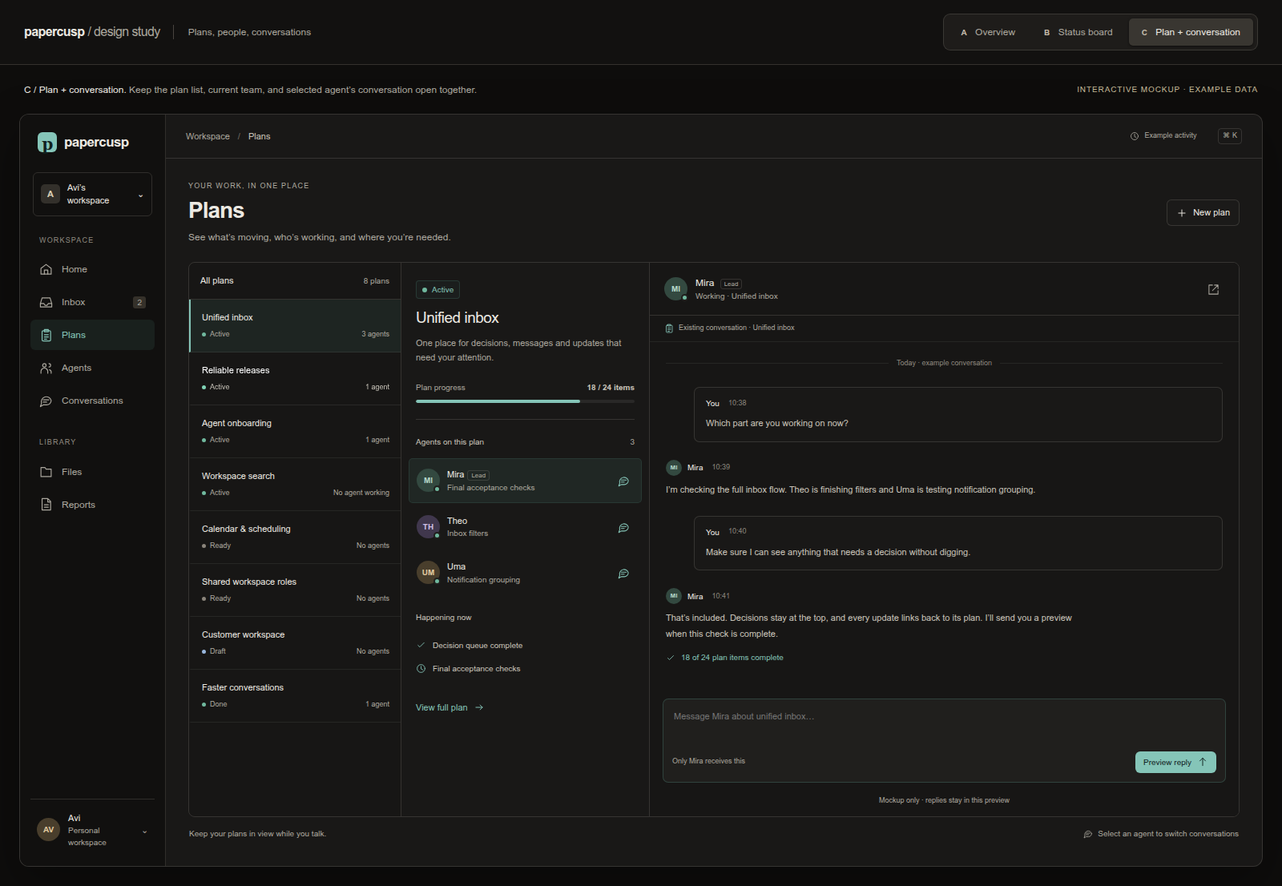
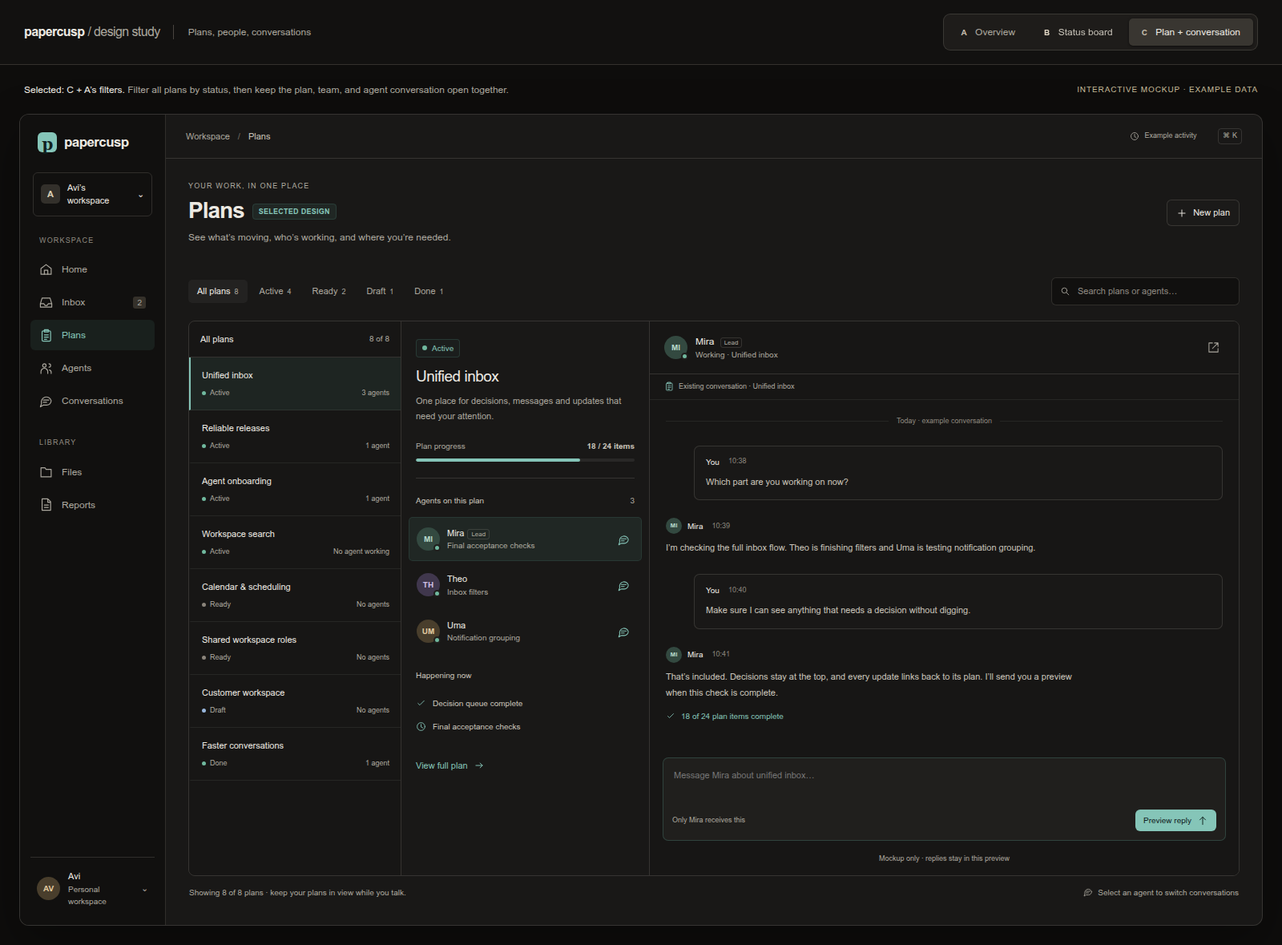
sync(docs): docs (3 files, +37/-8) [skip ci]
Refining Avi's selected plans mockup C with the status filters/counts…

Papercusp-Agent: su-a76ea643-a38b-4f64-9b80-a4152d0f8b6b

diff --git a/docs/evidence/plans-overview-mockups-2026-10-23/index.html b/docs/evidence/plans-overview-mockups-2026-10-23/index.html
@@ -2,7 +2,7 @@
 <html lang="en">
 <head>
 <meta charset="utf-8"><meta name="viewport" content="width=device-width,initial-scale=1">
-<title>Plans — three interface concepts</title>
+<title>Plans — selected design with status filters</title>
 <style>
 :root{color-scheme:dark;--deep:#11100f;--bg:#191817;--panel:#201f1d;--raised:#262523;--ink:#ece9e2;--dim:#c9c4ba;--muted:#aba79e;--line:rgba(201,196,186,.17);--soft:rgba(201,196,186,.09);--accent:#85c5b8;--accent-bg:rgba(95,174,159,.10);--good:#70b89e;--warn:#d1a65a;--bad:#da7a72;--blue:#98b6dc}
 *{box-sizing:border-box}body{margin:0;background:#0e0d0c;color:var(--ink);font-family:Inter,-apple-system,BlinkMacSystemFont,"Segoe UI",sans-serif;font-size:13px;line-height:1.5}button,input,textarea{font:inherit}button{color:inherit;cursor:pointer;background:none;border:0}button:focus-visible,input:focus-visible,textarea:focus-visible{outline:2px solid var(--accent);outline-offset:3px}button:hover{filter:brightness(1.15)}svg{width:17px;height:17px;flex-shrink:0;vertical-align:middle;fill:none;stroke:currentColor;stroke-width:1.65;stroke-linecap:round;stroke-linejoin:round}h1,h2,h3,p{margin:0}button:disabled{opacity:.5;cursor:default}.reviewbar{height:81px;padding:0 30px;display:flex;align-items:center;justify-content:space-between;border-bottom:1px solid #34312d;background:#121110;gap:20px}.reviewtitle{display:flex;align-items:center;gap:16px}.wordmark{font-size:16px;font-weight:650;letter-spacing:-.6px}.study{border-left:1px solid #49443f;padding-left:18px;color:var(--muted);font-size:12px}.concepts{display:flex;gap:4px;background:#1e1c1a;padding:5px;border:1px solid var(--line);border-radius:9px}.concepts button{padding:8px 16px;border-radius:5px;color:var(--muted);font-size:12px}.concepts button.selected{background:#393631;color:var(--ink);box-shadow:0 1px 3px #0008}.concepts b{font-size:10px;margin-right:7px;color:#c4bbaa}.caption{height:61px;padding:0 30px;display:flex;align-items:center;justify-content:space-between;color:var(--muted);font-size:12px;gap:20px}.caption strong{color:var(--ink);font-weight:500}.mocklabel{font-size:10px;letter-spacing:.09em;color:#c0b594;text-transform:uppercase;white-space:nowrap}.app{margin:0 24px 24px;border:1px solid var(--line);border-radius:12px;overflow:hidden;background:var(--bg);min-height:846px;display:grid;grid-template-columns:182px 1fr;box-shadow:0 20px 60px #0005}.sidebar{border-right:1px solid var(--line);background:var(--deep);padding:22px 13px;display:flex;flex-direction:column;gap:24px}.brand{padding:0 9px;display:flex;align-items:center;gap:9px;font-size:17px;letter-spacing:-.6px;font-weight:650}.brandmark{width:24px;height:25px;background:var(--accent);color:#10211e;border-radius:6px;display:grid;place-items:center;font-family:Georgia,serif;font-weight:bold;font-size:21px}.workspace{margin:0 3px;padding:10px 9px;border:1px solid var(--line);border-radius:6px;display:flex;align-items:center;gap:9px;font-size:11px}.workspace svg{width:13px}.wsicon{width:24px;height:24px;border-radius:5px;display:grid;place-items:center;background:#33302b;color:#ddd1b6;font-weight:600}.navlabel{color:#8c877e;font-size:9px;letter-spacing:.13em;padding:0 11px;margin-bottom:10px}.navitem{padding:10px 11px;display:flex;align-items:center;gap:11px;color:var(--muted);font-size:12px;border-radius:6px;margin:3px 0}.navitem.selected{background:var(--accent-bg);color:var(--accent)}.navitem em{margin-left:auto;font-size:10px;background:#35312a;padding:0 5px;border-radius:3px;font-style:normal}.sidebarfoot{margin-top:auto;padding:15px 8px 0;border-top:1px solid var(--line);display:flex;align-items:center;gap:10px;font-size:11px}.sidebarfoot small{display:block;color:var(--muted);font-size:10px}.avatar{width:29px;height:29px;border-radius:50%;background:#334940;color:#b4d6c7;display:inline-grid;place-items:center;font-size:10px;font-weight:650;position:relative;flex-shrink:0}.avatar.t1{background:#40374d;color:#ccbee3}.avatar.t2{background:#493e2c;color:#e0c99f}.avatar.t3{background:#304350;color:#b0d0de}.avatar.t4{background:#4b3535;color:#e4bbbb}.avatar .dot{position:absolute;bottom:-1px;right:-1px;border:2px solid var(--panel);width:9px;height:9px}.main{min-width:0}.appbar{height:55px;border-bottom:1px solid var(--line);padding:0 25px;display:flex;align-items:center;justify-content:space-between;color:var(--muted);font-size:11px}.crumb{display:flex;align-items:center;gap:10px}.crumb span{color:#78736b}.appbar .right{display:flex;align-items:center;gap:20px}.keycap{font-size:9px;border:1px solid var(--line);border-radius:4px;padding:2px 5px;margin-left:7px}.maincontent{padding:28px 28px 20px}.heading{display:flex;align-items:center;justify-content:space-between;margin-bottom:22px}.eyebrow{font-size:9px;color:var(--muted);letter-spacing:.13em;text-transform:uppercase;margin-bottom:6px}h1{font-size:28px;line-height:1.2;letter-spacing:-1px;font-weight:600}.subhead{font-size:12px;color:var(--muted);margin-top:8px}.button{display:inline-flex;gap:7px;align-items:center;justify-content:center;border:1px solid var(--line);padding:7px 11px;border-radius:6px;font-size:11px;font-weight:500;background:#ffffff03}.button svg{width:14px;height:14px}.button.primary{background:var(--accent);color:#10211e;border-color:transparent}.button.link{border:0;color:var(--accent);background:none;padding:4px 0}.stats{display:flex;align-items:center;gap:26px;font-size:11px;color:var(--muted);padding:15px 0 20px;border-bottom:1px solid var(--line)}.stats button{font-size:11px;color:var(--muted);display:flex;align-items:center;gap:7px;padding:0}.stats b{color:var(--ink);font-size:17px;line-height:1;font-weight:550;margin-right:4px}.stats .attention{color:var(--warn);margin-left:auto}.stats .attention b{color:var(--warn)}.dot{width:6px;height:6px;display:inline-block;border-radius:50%;background:var(--good);flex-shrink:0}.dot.waiting{background:var(--warn)}.dot.off{background:#8a847b}.dot.draft{background:var(--blue)}.dot.done{background:var(--good)}.filters{display:flex;align-items:center;justify-content:space-between;gap:20px;padding:19px 0}.filtertabs{display:flex;align-items:center;gap:4px}.filtertabs button{padding:6px 11px;border-radius:5px;font-size:11px;color:var(--muted);white-space:nowrap}.filtertabs button.selected{background:#ffffff0c;color:var(--ink)}.filtertabs small{font-size:9px;color:var(--muted);padding-left:5px}.search{display:flex;align-items:center;gap:7px;border:1px solid var(--line);border-radius:6px;padding:7px 10px;width:235px;color:var(--muted);background:var(--deep)}.search svg{width:13px;height:13px}.search input{width:100%;background:none;border:0;outline:0;color:var(--ink);font-size:11px}.search input::placeholder{color:#8e8981}.tablewrap{border:1px solid var(--line);border-radius:8px;overflow:hidden}.plan-table{width:100%;border-collapse:collapse;table-layout:fixed}.plan-table th{text-align:left;padding:11px 16px;font-size:9px;color:var(--muted);text-transform:uppercase;letter-spacing:.08em;font-weight:450;background:#ffffff02;border-bottom:1px solid var(--line)}.plan-table td{padding:16px;border-bottom:1px solid var(--soft);vertical-align:middle}.plan-table tr:last-child td{border:0}.plan-table tr:hover td{background:#ffffff02}.plan-table th:nth-child(1){width:26%}.plan-table th:nth-child(2){width:14%}.plan-table th:nth-child(3){width:15%}.plan-table th:nth-child(4){width:28%}.plan-table th:nth-child(5){width:17%}.plantitle{display:block;text-align:left;font-weight:550;font-size:12px;padding:0;line-height:1.35}.planmeta{font-size:10px;color:var(--muted);margin-top:5px}.badge{display:inline-flex;align-items:center;gap:6px;font-size:10px;border:1px solid var(--line);padding:3px 7px;border-radius:4px;color:var(--dim);white-space:nowrap}.badge.active{color:var(--accent);background:#5fae9f0b;border-color:#5fae9f30}.badge.ready{color:var(--dim)}.badge.draft{color:var(--blue);border-color:#98b6dc30}.badge.done{color:var(--good);border-color:#70b89e30}.progress{height:3px;background:#ffffff12;border-radius:3px;margin-top:8px;width:88px;overflow:hidden}.progress i{height:100%;display:block;background:var(--accent);border-radius:3px}.progresstext{color:var(--dim);font-size:11px}.progresstext span{color:var(--muted)}.agents{display:flex;align-items:center;gap:7px}.agentpill{display:flex;align-items:center;gap:7px;padding:0;font-size:11px;white-space:nowrap}.agentpill:hover .agentname{color:var(--accent)}.agentpill .avatar{width:25px;height:25px;font-size:9px}.agentline{display:flex;align-items:center;gap:4px}.agentline svg{width:12px;height:12px;color:var(--muted)}.agentstatus{font-size:9px;color:var(--muted);line-height:1.5}.agentstatus.waiting{color:var(--warn)}.moreagents{display:flex;margin-left:5px}.moreagents .avatar{width:24px;height:24px;margin-left:-5px;border:2px solid var(--bg);font-size:8px}.noagent{color:var(--warn);font-size:11px;display:flex;align-items:center;gap:7px}.noagent svg{width:14px;height:14px}.latest{font-size:10px;color:var(--muted)}.latest .needs{display:inline-flex;gap:5px;align-items:center;color:var(--warn);font-size:10px;margin-bottom:3px}.latest .needs svg{width:12px;height:12px}.tablefoot{display:flex;justify-content:space-between;color:var(--muted);font-size:10px;padding:13px 1px}.tablefoot span{display:flex;align-items:center;gap:6px}.tablefoot svg{width:12px;height:12px}.recommend{font-size:9px;letter-spacing:.03em;color:var(--accent);background:var(--accent-bg);border:1px solid #5fae9f2a;border-radius:4px;padding:4px 7px;margin-left:10px;vertical-align:middle}.legend{font-size:10px;color:var(--muted);margin-top:16px}.legend strong{font-weight:450;color:var(--dim)}
@@ -25,7 +25,7 @@ document.querySelectorAll('[data-icon]').forEach(el=>el.insertAdjacentHTML('afte
 const people={mira:{name:'Mira',initial:'MI',tone:'',role:'Lead',state:'Working',task:'Final acceptance checks'},theo:{name:'Theo',initial:'TH',tone:'t1',role:'Agent',state:'Working',task:'Inbox filters'},uma:{name:'Uma',initial:'UM',tone:'t2',role:'Agent',state:'Working',task:'Notification grouping'},luca:{name:'Luca',initial:'LU',tone:'t3',role:'Lead',state:'Waiting',task:'Needs your decision'},iris:{name:'Iris',initial:'IR',tone:'t4',role:'Lead',state:'Working',task:'Testing the welcome flow'},eli:{name:'Eli',initial:'EL',tone:'t2',role:'Agent',state:'Ended',task:'Session finished'}};
 const plans=[{id:'inbox',title:'Unified inbox',area:'Workspace',state:'active',done:18,total:24,agents:['mira','theo','uma'],latest:'Checking the final flow',age:'Just now',desc:'One place for decisions, messages and updates that need your attention.'},{id:'releases',title:'Reliable releases',area:'Platform',state:'active',done:9,total:16,agents:['luca'],latest:'Needs your decision',age:'4m ago',attention:'Decision needed',desc:'Make releases predictable and keep recovery simple when something goes wrong.'},{id:'onboarding',title:'Agent onboarding',area:'Agents',state:'active',done:6,total:10,agents:['iris'],latest:'Testing the welcome flow',age:'2m ago',desc:'Help every new agent find its work and start with the right context.'},{id:'search',title:'Workspace search',area:'Workspace',state:'active',done:2,total:8,agents:[],latest:'No agent assigned',age:'Last activity 2h ago',attention:'No agent working',desc:'Find plans, files and conversations in one search.'},{id:'calendar',title:'Calendar & scheduling',area:'Apps',state:'ready',done:0,total:12,agents:[],latest:'Ready when you are',age:'Updated yesterday',desc:'Make time for the work that matters.'},{id:'roles',title:'Shared workspace roles',area:'Workspace',state:'ready',done:0,total:9,agents:[],latest:'Ready when you are',age:'Updated yesterday',desc:'Simple permissions for shared work.'},{id:'customer',title:'Customer workspace',area:'Apps',state:'draft',done:0,total:0,agents:[],latest:'Still taking shape',age:'Updated 2d ago',desc:'A new home for customer work.'},{id:'conversations',title:'Faster conversations',area:'Experience',state:'done',done:14,total:14,agents:['eli'],latest:'Completed',age:'Finished yesterday',desc:'Keep every conversation responsive.'}];
 const escape=s=>String(s).replace(/[&<>"']/g,c=>({'&':'&amp;','<':'&lt;','>':'&gt;','"':'&quot;',"'":'&#39;'}[c]));
-let concept=new URLSearchParams(location.search).get('view')||'overview',filter='all',query='',selected='inbox',selectedAgent='mira',returnFocus=null;const draftReplies={};
+let concept=new URLSearchParams(location.search).get('view')||'conversation',filter='all',query='',selected='inbox',selectedAgent='mira',returnFocus=null;const draftReplies={};
 const stateLabel=s=>({active:'Active',ready:'Ready',draft:'Draft',done:'Done'}[s]);
 function av(id,live=true){const p=people[id];return '<span class="avatar '+p.tone+'">'+p.initial+(live?'<i class="dot '+(p.state==='Waiting'?'waiting':p.state==='Ended'?'off':'')+'"></i>':'')+'</span>'}
 function badge(p){return '<span class="badge '+p.state+'"><i class="dot '+(p.state==='ready'?'off':p.state==='draft'?'draft':'')+'"></i>'+stateLabel(p.state)+'</span>'}
@@ -33,14 +33,22 @@ function agentButton(id,pid){const p=people[id];return '<button class="agentpill
 function moreAgents(p){return p.agents.length>1?'<div class="moreagents">'+p.agents.slice(1).map(id=>'<button data-chat="'+id+'" data-plan="'+p.id+'" aria-label="Open conversation with '+people[id].name+'">'+av(id,false)+'<span>'+people[id].name+'</span></button>').join('')+'</div>':''}
 function progress(p){return '<span class="progresstext">'+(p.total?p.done+' <span>/ '+p.total+' items</span>':'Not scoped yet')+'</span>'+(p.total?'<div class="progress" aria-label="'+p.done+' of '+p.total+' items complete"><i style="width:'+p.done/p.total*100+'%"></i></div>':'')}
 function visiblePlans(){return plans.filter(p=>(filter==='all'||filter==='attention'&&p.attention||p.state===filter)&&(!query||[p.title,p.area,...p.agents.map(id=>people[id].name)].join(' ').toLowerCase().includes(query.toLowerCase())))}
-function header(){const active=plans.filter(p=>p.state==='active'),currentAgents=active.flatMap(p=>p.agents),needs=active.filter(p=>p.attention);return '<div class="heading"><div><div class="eyebrow">YOUR WORK, IN ONE PLACE</div><h1>Plans'+(concept==='overview'?'<span class="recommend">RECOMMENDED</span>':'')+'</h1><p class="subhead">See what’s moving, who’s working, and where you’re needed.</p></div><button class="button" data-demo="This is a design preview. Creating a plan will use the existing plan editor.">'+icon('plus')+' New plan</button></div>'+(concept==='conversation'?'':'<div class="stats"><button data-filter="all"><b>'+plans.length+'</b> plans</button><button data-filter="active"><i class="dot"></i><b>'+active.length+'</b> active</button><span>'+icon('agents')+' <b>'+currentAgents.length+'</b> agents · '+currentAgents.filter(id=>people[id].state==='Working').length+' working, '+currentAgents.filter(id=>people[id].state==='Waiting').length+' waiting</span><button class="attention" data-filter="attention">'+icon('alert')+'<b>'+needs.length+'</b> need attention '+icon('arrow')+'</button></div>')}
+function header(){const active=plans.filter(p=>p.state==='active'),currentAgents=active.flatMap(p=>p.agents),needs=active.filter(p=>p.attention);return '<div class="heading"><div><div class="eyebrow">YOUR WORK, IN ONE PLACE</div><h1>Plans'+(concept==='conversation'?'<span class="recommend">SELECTED DESIGN</span>':'')+'</h1><p class="subhead">See what’s moving, who’s working, and where you’re needed.</p></div><button class="button" data-demo="This is a design preview. Creating a plan will use the existing plan editor.">'+icon('plus')+' New plan</button></div>'+(concept==='conversation'?'':'<div class="stats"><button data-filter="all"><b>'+plans.length+'</b> plans</button><button data-filter="active"><i class="dot"></i><b>'+active.length+'</b> active</button><span>'+icon('agents')+' <b>'+currentAgents.length+'</b> agents · '+currentAgents.filter(id=>people[id].state==='Working').length+' working, '+currentAgents.filter(id=>people[id].state==='Waiting').length+' waiting</span><button class="attention" data-filter="attention">'+icon('alert')+'<b>'+needs.length+'</b> need attention '+icon('arrow')+'</button></div>')}
 function filters(){return '<div class="filters"><div class="filtertabs" aria-label="Filter plan status">'+['all','active','ready','draft','done'].map(s=>'<button data-filter="'+s+'" class="'+(filter===s?'selected':'')+'" aria-pressed="'+(filter===s)+'">'+(s==='all'?'All plans':stateLabel(s))+'<small>'+plans.filter(p=>s==='all'||p.state===s).length+'</small></button>').join('')+'</div><label class="search">'+icon('search')+'<span class="sr">Search plans or agents</span><input id="search" value="'+escape(query)+'" placeholder="Search plans or agents…"></label></div>'}
 function overview(){const rows=visiblePlans();return header()+filters()+'<div class="tablewrap"><table class="plan-table"><thead><tr><th>Plan</th><th>Status</th><th>Progress</th><th>Agents · click to talk</th><th>Latest activity</th></tr></thead><tbody>'+rows.map(p=>'<tr><td><button class="plantitle" data-select="'+p.id+'">'+p.title+'</button><div class="planmeta">'+p.area+'</div></td><td>'+badge(p)+'</td><td>'+progress(p)+'</td><td>'+(p.agents.length?'<div class="agents">'+agentButton(p.agents[0],p.id)+moreAgents(p)+'</div>':p.state==='active'?'<span class="noagent">'+icon('alert')+' No agent working</span>':'<span class="quiet">No agents assigned</span>')+'</td><td class="latest">'+(p.attention?'<div class="needs">'+icon('alert')+p.attention+'</div>':'')+(!p.attention?p.latest+'<br>':'')+p.age+'</td></tr>').join('')+'</tbody></table>'+(rows.length?'':'<div class="empty">No matching plans. Try another search or clear your filters.</div>')+'</div><div class="tablefoot"><span>Showing '+rows.length+' of '+plans.length+' plans · all statuses included</span><span>'+icon('chat')+' Click any agent to open their conversation</span></div><p class="legend"><strong>Active</strong> = work on it now &nbsp; · &nbsp; <strong>Ready</strong> = approved for later &nbsp; · &nbsp; <strong>Draft</strong> = still taking shape</p>'}
 function boardCard(p){return '<article class="boardcard '+(p.attention?'flagged':'')+'"><button class="plantitle" data-select="'+p.id+'">'+p.title+'</button><div class="planmeta">'+p.area+' · '+p.age+'</div>'+(p.total?'<div class="boardprogress"><div class="progress"><i style="width:'+p.done/p.total*100+'%"></i></div><span>'+p.done+' / '+p.total+'</span></div>':'<p class="quiet" style="margin:13px 0">Not scoped yet</p>')+(p.attention?'<div class="callout">'+icon('alert')+p.attention+'</div>':'')+'<div class="cardfooter">'+(p.agents.length?'<div class="agents">'+agentButton(p.agents[0],p.id)+moreAgents(p)+'</div><button class="button" data-chat="'+p.agents[0]+'" data-plan="'+p.id+'" aria-label="Open '+people[p.agents[0]].name+' conversation">'+icon('chat')+' Talk</button>':p.state==='active'?'<span class="noagent">No agent working</span><button class="button" data-demo="Assign an agent to Workspace search. The production action would open the existing agent picker.">Assign '+icon('plus')+'</button>':'<span class="quiet">'+(p.state==='draft'?'Still taking shape':'Ready for later')+'</span>')+'</div></article>'}
 function board(){const list=visiblePlans();return header()+filters()+'<div class="board">'+['active','ready','draft','done'].map(s=>{const ps=list.filter(p=>p.state===s);return '<section><div class="columnhead"><span><i class="dot '+(s==='ready'?'off':s==='draft'?'draft':'')+'"></i>'+stateLabel(s)+' <em>'+ps.length+'</em></span>'+icon('down')+'</div>'+ps.map(boardCard).join('')+(!ps.length?'<div class="emptycolumn">No '+s+' plans in this view.</div>':'')+'</section>'}).join('')+'</div><p class="legend">Plan status sets the column. Agent activity stays visible on the card.</p>'}
 function chatMarkup(pid,id,drawer=false){const p=plans.find(p=>p.id===pid),a=people[id];let msgs;if(pid==='inbox'){msgs=[['owner','Which part are you working on now?','10:38'],['agent',id==='mira'?'I’m checking the full inbox flow. Theo is finishing filters and Uma is testing notification grouping.':'I’m working on '+a.task.toLowerCase()+'. Mira is coordinating the full inbox flow.','10:39'],['owner','Make sure I can see anything that needs a decision without digging.','10:40'],['agent','That’s included. Decisions stay at the top, and every update links back to its plan. I’ll send you a preview when this check is complete.','10:41']]}else{msgs=[['owner','Where are we with this plan?','10:38'],['agent',a.state==='Waiting'?'I’ve finished the checks I can run. I need your decision on the release recovery approach before continuing.':a.state==='Ended'?'This plan is complete. You can read the conversation here and resume the agent if you need more work.':'I’m working on '+a.task.toLowerCase()+'. The plan is moving forward.','10:39']]};return '<section class="chat"><div class="chathead">'+av(id)+'<div><div class="agentname">'+a.name+' <span class="role">'+a.role+'</span></div><div class="agentstatus '+(a.state==='Waiting'?'waiting':'')+'">'+a.state+' · '+p.title+'</div></div><div class="tools">'+(drawer?'<button class="closechat" data-close aria-label="Close conversation">'+icon('close')+'</button>':'<button data-chat="'+id+'" data-plan="'+pid+'" data-detach aria-label="Expand conversation">'+icon('external')+'</button>')+'</div></div><div class="chatcontext">'+icon('plans')+' Existing conversation · '+p.title+'</div><div class="messages"><div class="day">Today · example conversation</div>'+msgs.map(([who,body,time])=>'<div class="message '+(who==='owner'?'owner':'')+'"><div class="msgby">'+(who==='agent'?av(id,false):'')+(who==='owner'?'You':a.name)+'<time>'+time+'</time></div><div class="msgbody">'+body+(who==='agent'&&time==='10:41'?'<div class="miniupdate">'+icon('check')+' 18 of 24 plan items complete</div>':'')+'</div></div>').join('')+(draftReplies[id]||[]).map(msg=>'<div class="message owner"><div class="msgby">You <time>Preview</time></div><div class="msgbody">'+escape(msg)+'</div></div>').join('')+'</div><form class="chatcompose" data-compose="'+id+'"><label class="sr" for="reply-'+id+(drawer?'-drawer':'')+'">Message '+a.name+'</label><textarea id="reply-'+id+(drawer?'-drawer':'')+'" placeholder="Message '+a.name+' about '+p.title.toLowerCase()+'…"></textarea><div class="composefoot"><span>Only '+a.name+' receives this</span><button class="button primary" type="submit">Preview reply '+icon('up')+'</button></div></form><p class="chatnote">Mockup only · replies stay in this preview</p></section>'}
-function conversation(){const p=plans.find(p=>p.id===selected);if(!p.agents.includes(selectedAgent))selectedAgent=p.agents[0]||null;return header()+'<div class="split"><section class="planlist"><div class="listhead">All plans <span>'+plans.length+' plans</span></div>'+plans.map(pl=>'<button class="minirow '+(selected===pl.id?'selected':'')+'" data-inline-plan="'+pl.id+'"><span class="minititle">'+pl.title+'</span><span class="minimeta"><i class="dot '+(pl.state==='ready'?'off':pl.state==='draft'?'draft':'')+'"></i>'+stateLabel(pl.state)+'<em>'+(pl.agents.length?pl.agents.length+' '+(pl.agents.length===1?'agent':'agents'):pl.state==='active'?'No agent working':'No agents')+'</em></span></button>').join('')+'</section><section class="plandetail">'+badge(p)+'<h2>'+p.title+'</h2><p class="description">'+p.desc+'</p><div class="detailprogress"><span class="progresstext"><span>Plan progress</span><strong>'+p.done+' / '+p.total+' items</strong></span><div class="progress"><i style="width:'+(p.total?p.done/p.total*100:0)+'%"></i></div></div><div class="sectionlabel"><strong>Agents on this plan</strong><span>'+p.agents.length+'</span></div>'+p.agents.map(id=>'<div class="detailagent '+(id===selectedAgent?'selected':'')+'">'+av(id)+'<div><div class="agentname">'+people[id].name+(people[id].role==='Lead'?'<span class="role">Lead</span>':'')+'</div><div class="agentstatus '+(people[id].state==='Waiting'?'waiting':'')+'">'+people[id].task+'</div></div><button data-inline-agent="'+id+'" aria-label="Open conversation with '+people[id].name+'">'+icon('chat')+'</button></div>').join('')+(!p.agents.length?'<p class="quiet">'+(p.state==='active'?'This plan is active, but nobody is working on it. Assign an agent to begin.':'No agent assigned yet.')+'</p>':'')+(p.id==='inbox'?'<div class="sectionlabel"><strong>Happening now</strong></div><div class="taskline">'+icon('check')+' Decision queue complete</div><div class="taskline">'+icon('clock')+' Final acceptance checks</div>':'')+'<button class="button link" style="margin-top:22px" data-demo="The full plan would open in the existing plan dashboard.">View full plan '+icon('arrow')+'</button></section>'+(selectedAgent?chatMarkup(p.id,selectedAgent):'<section class="chat"><div class="empty" style="margin:auto"><h3 style="font-size:15px;margin-bottom:8px">No agent conversation yet</h3><p style="font-size:11px;margin-bottom:16px">Assign an agent to start work on this plan.</p><button class="button" data-demo="The production action would open the existing agent picker.">'+icon('plus')+' Assign an agent</button></div></section>')+'</div><div class="tablefoot"><span>Keep your plans in view while you talk.</span><span>'+icon('chat')+' Select an agent to switch conversations</span></div>'}
-function render(){if(!['overview','board','conversation'].includes(concept))concept='overview';document.querySelectorAll('[data-concept]').forEach(b=>{b.classList.toggle('selected',b.dataset.concept===concept);b.setAttribute('aria-pressed',String(b.dataset.concept===concept))});document.querySelector('#caption').innerHTML={overview:'<strong>A / Overview.</strong> The clearest everyday view: every plan, its status, named agents, and direct conversation access.',board:'<strong>B / Status board.</strong> Group plans by commitment. See work in motion and unattended active plans at a glance.',conversation:'<strong>C / Plan + conversation.</strong> Keep the plan list, current team, and selected agent’s conversation open together.'}[concept];document.querySelector('#content').innerHTML=concept==='overview'?overview():concept==='board'?board():conversation();const s=document.querySelector('#search');if(s)s.addEventListener('input',()=>{const start=s.selectionStart;query=s.value;render();const n=document.querySelector('#search');n.focus();n.setSelectionRange(start,start)})}
+function conversation(){
+  const rows=visiblePlans();
+  const p=rows.find(pl=>pl.id===selected)||rows[0];
+  if(p){selected=p.id;if(!p.agents.includes(selectedAgent))selectedAgent=p.agents[0]||null;}
+  const listTitle=query?'Matching plans':filter==='all'?'All plans':stateLabel(filter)+' plans';
+  const list='<section class="planlist"><div class="listhead">'+listTitle+' <span>'+rows.length+' of '+plans.length+'</span></div>'+rows.map(pl=>'<button class="minirow '+(selected===pl.id?'selected':'')+'" data-inline-plan="'+pl.id+'"><span class="minititle">'+pl.title+'</span><span class="minimeta"><i class="dot '+(pl.state==='ready'?'off':pl.state==='draft'?'draft':'')+'"></i>'+stateLabel(pl.state)+'<em>'+(pl.agents.length?pl.agents.length+' '+(pl.agents.length===1?'agent':'agents'):pl.state==='active'?'No agent working':'No agents')+'</em></span></button>').join('')+'</section>';
+  if(!p)return header()+filters()+'<div class="split">'+list+'<div class="empty" style="grid-column:2 / -1;margin:auto"><h2 style="font-size:17px;margin-bottom:8px">No matching plans</h2><p>Try another search or choose a different status.</p></div></div>';
+  return header()+filters()+'<div class="split">'+list+'<section class="plandetail">'+badge(p)+'<h2>'+p.title+'</h2><p class="description">'+p.desc+'</p><div class="detailprogress"><span class="progresstext"><span>Plan progress</span><strong>'+p.done+' / '+p.total+' items</strong></span><div class="progress"><i style="width:'+(p.total?p.done/p.total*100:0)+'%"></i></div></div><div class="sectionlabel"><strong>Agents on this plan</strong><span>'+p.agents.length+'</span></div>'+p.agents.map(id=>'<div class="detailagent '+(id===selectedAgent?'selected':'')+'">'+av(id)+'<div><div class="agentname">'+people[id].name+(people[id].role==='Lead'?'<span class="role">Lead</span>':'')+'</div><div class="agentstatus '+(people[id].state==='Waiting'?'waiting':'')+'">'+people[id].task+'</div></div><button data-inline-agent="'+id+'" aria-label="Open conversation with '+people[id].name+'">'+icon('chat')+'</button></div>').join('')+(!p.agents.length?'<p class="quiet">'+(p.state==='active'?'This plan is active, but nobody is working on it. Assign an agent to begin.':'No agent assigned yet.')+'</p>':'')+(p.id==='inbox'?'<div class="sectionlabel"><strong>Happening now</strong></div><div class="taskline">'+icon('check')+' Decision queue complete</div><div class="taskline">'+icon('clock')+' Final acceptance checks</div>':'')+'<button class="button link" style="margin-top:22px" data-demo="The full plan would open in the existing plan dashboard.">View full plan '+icon('arrow')+'</button></section>'+(selectedAgent?chatMarkup(p.id,selectedAgent):'<section class="chat"><div class="empty" style="margin:auto"><h3 style="font-size:15px;margin-bottom:8px">No agent conversation yet</h3><p style="font-size:11px;margin-bottom:16px">Assign an agent to start work on this plan.</p><button class="button" data-demo="The production action would open the existing agent picker.">'+icon('plus')+' Assign an agent</button></div></section>')+'</div><div class="tablefoot"><span>Showing '+rows.length+' of '+plans.length+' plans · keep your plans in view while you talk.</span><span>'+icon('chat')+' Select an agent to switch conversations</span></div>';
+}
+function render(){if(!['overview','board','conversation'].includes(concept))concept='conversation';document.querySelectorAll('[data-concept]').forEach(b=>{b.classList.toggle('selected',b.dataset.concept===concept);b.setAttribute('aria-pressed',String(b.dataset.concept===concept))});document.querySelector('#caption').innerHTML={overview:'<strong>A / Overview.</strong> Every plan, its status, named agents, and direct conversation access.',board:'<strong>B / Status board.</strong> Group plans by commitment. See work in motion and unattended active plans at a glance.',conversation:'<strong>Selected: C + A’s filters.</strong> Filter all plans by status, then keep the plan, team, and agent conversation open together.'}[concept];document.querySelector('#content').innerHTML=concept==='overview'?overview():concept==='board'?board():conversation();const s=document.querySelector('#search');if(s)s.addEventListener('input',()=>{const start=s.selectionStart;query=s.value;render();const n=document.querySelector('#search');n.focus();n.setSelectionRange(start,start)})}
 function openChat(pid,id){returnFocus=document.activeElement;const d=document.querySelector('#drawer');d.querySelector('.drawer').innerHTML=chatMarkup(pid,id,true);d.hidden=false;d.querySelector('[data-close]').focus()}
 function closeChat(){document.querySelector('#drawer').hidden=true;if(returnFocus&&document.contains(returnFocus))returnFocus.focus()}
 let toastTimer;function toast(text){const t=document.querySelector('.toast');t.textContent=text;t.hidden=false;clearTimeout(toastTimer);toastTimer=setTimeout(()=>t.hidden=true,4200)}
